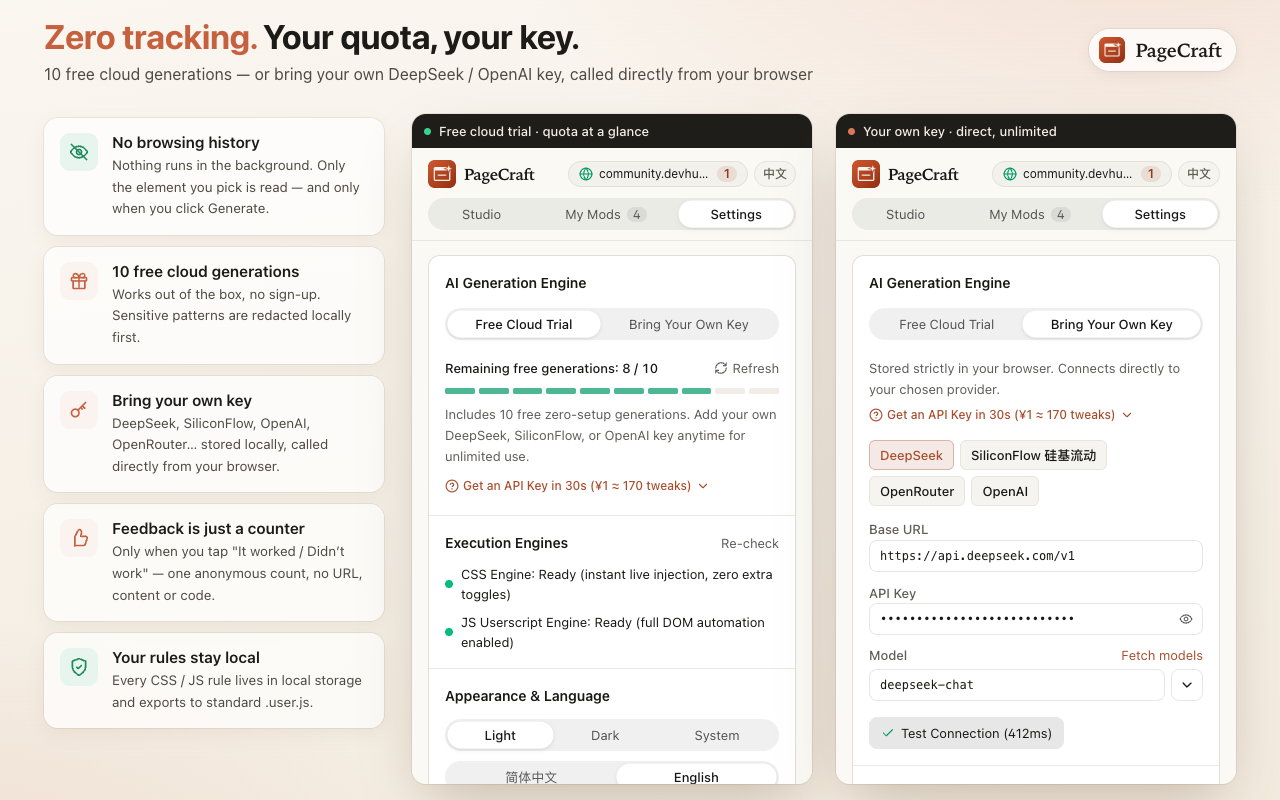
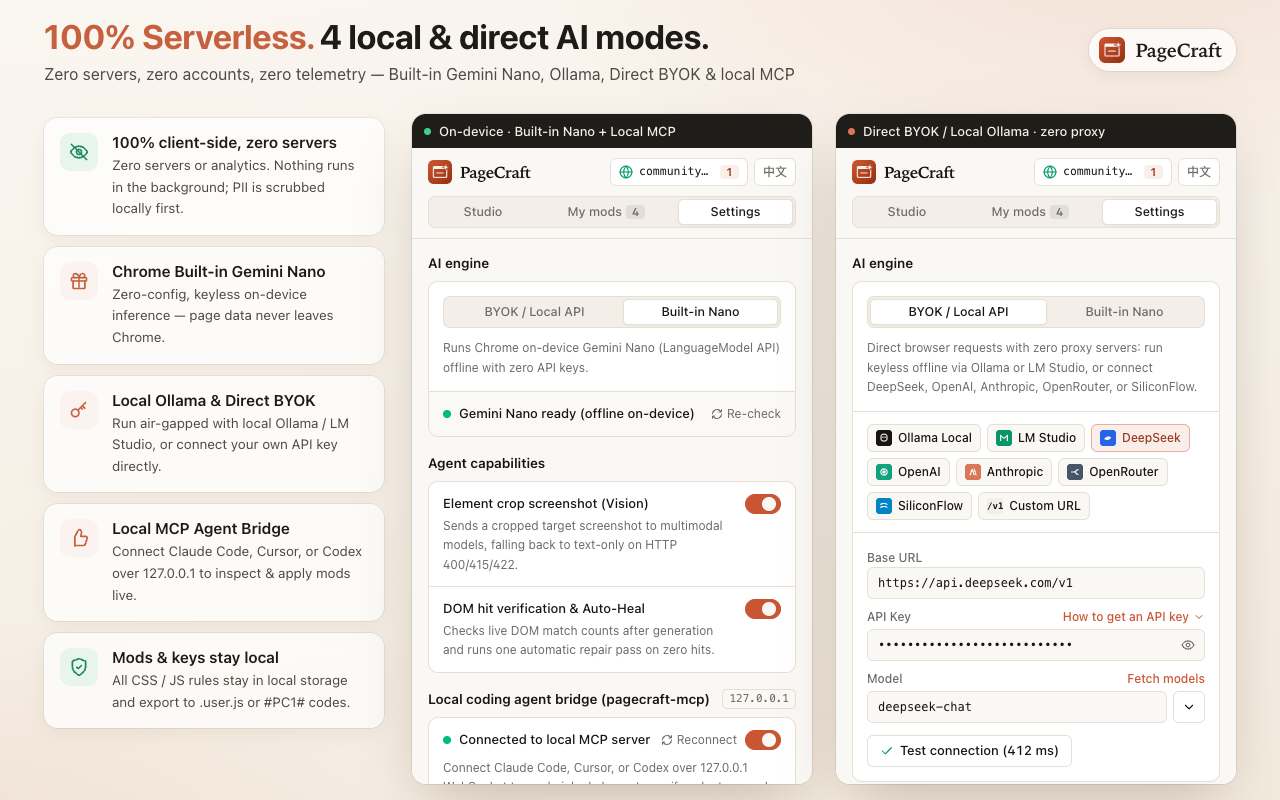
chore(store-assets): refresh bilingual screenshots and promos for zero-backend UI

diff --git a/store-assets/harness/scenes.js b/store-assets/harness/scenes.js
@@ -280,11 +280,11 @@
     },
     4: {
       title: L('改完立刻见效，<em>不满意就继续微调</em>', 'See it work instantly. <em>Refine until it\u2019s right.</em>'),
-      sub: L('一键反馈「生效了吗？」· 规则随时开关 · 导出标准 .user.js', 'One-tap "Did it work?" · toggle rules anytime · export standard .user.js'),
+      sub: L('DOM 命中实时校验与自动校准 · 规则随时开关 · 导出标准 .user.js', 'Live DOM hit check & auto-heal · toggle rules anytime · export standard .user.js'),
     },
     5: {
-      title: L('<em>零后台监控</em>，额度和密钥都由你掌控', '<em>Zero tracking.</em> Your quota, your key.'),
-      sub: L('送 10 次免费云端生成；也可自带 DeepSeek / OpenAI 等 Key，浏览器直连、无限使用', '10 free cloud generations — or bring your own DeepSeek / OpenAI key, called directly from your browser'),
+      title: L('<em>100% 零服务端</em>，4 种本地与自有算力任选', '<em>100% Serverless.</em> 4 local & direct AI modes.'),
+      sub: L('零官方服务器、零账号、零遥测上报；支持 Chrome 内置 AI、Ollama、BYOK 与本地 MCP', 'Zero servers, zero accounts, zero telemetry — Built-in Gemini Nano, Ollama, Direct BYOK & local MCP'),
     },
   };
 
@@ -310,11 +310,11 @@
       chat: '<svg viewBox="0 0 24 24" fill="none" stroke="currentColor" stroke-width="2" stroke-linecap="round" stroke-linejoin="round"><path d="M7 10v12M15 5.9 14 10h5.8a2 2 0 0 1 1.9 2.6l-2.3 7A2 2 0 0 1 17.5 21H7V10l4.3-7.4A1.6 1.6 0 0 1 14.2 3c.6.4.9 1.2.8 2Z"/></svg>',
     };
     const items = [
-      ['green', ico.eye, L('不记录浏览历史', 'No browsing history'), L('不在后台读取网页；只有你点击「生成改造」时才读取所选元素的结构。', 'Nothing runs in the background. Only the element you pick is read — and only when you click Generate.')],
-      ['', ico.gift, L('10 次免费云端生成', '10 free cloud generations'), L('装好就能用，无需注册；敏感信息在本地先脱敏再发送。', 'Works out of the box, no sign-up. Sensitive patterns are redacted locally first.')],
-      ['', ico.key, L('自带 Key 直连服务商', 'Bring your own key'), L('DeepSeek、硅基流动、OpenAI、OpenRouter…密钥只存本机，请求不经过我们。', 'DeepSeek, SiliconFlow, OpenAI, OpenRouter… stored locally, called directly from your browser.')],
-      ['', ico.chat, L('反馈只是一个匿名计数', 'Feedback is just a counter'), L('只有你点「生效了 / 没生效」时才匿名上报一次，不含网址、内容或代码。', 'Only when you tap "It worked / Didn\u2019t work" — one anonymous count, no URL, content or code.')],
-      ['green', ico.shield, L('规则只存在你的浏览器', 'Your rules stay local'), L('所有 CSS / JS 规则保存在本地，可随时导出为标准 .user.js。', 'Every CSS / JS rule lives in local storage and exports to standard .user.js.')],
+      ['green', ico.eye, L('100% 纯本地零服务端', '100% client-side, zero servers'), L('不在后台读取网页，零遥测上报；发送前在本地自动完成敏感信息脱敏。', 'Zero servers or analytics. Nothing runs in the background; PII is scrubbed locally first.')],
+      ['', ico.gift, L('Chrome 内置 AI 离线可用', 'Chrome Built-in Gemini Nano'), L('零配置、免密钥调用端侧模型，网页结构数据完全不出浏览器。', 'Zero-config, keyless on-device inference — page data never leaves Chrome.')],
+      ['', ico.key, L('Ollama 与自带 Key 直连', 'Local Ollama & Direct BYOK'), L('支持本机 Ollama / LM Studio 免密钥离线，或直连 DeepSeek / OpenAI / Anthropic。', 'Run air-gapped with local Ollama / LM Studio, or connect your own API key directly.')],
+      ['', ico.chat, L('本地 MCP 编程智能体桥接', 'Local MCP Agent Bridge'), L('通过 127.0.0.1 连接 Claude Code / Cursor / Codex，直接操控页面与规则。', 'Connect Claude Code, Cursor, or Codex over 127.0.0.1 to inspect & apply mods live.')],
+      ['green', ico.shield, L('规则与密钥只存本机', 'Mods & keys stay local'), L('所有 CSS / JS 规则仅保存在浏览器本地，一键导出标准 .user.js 或 #PC1# 口令。', 'All CSS / JS rules stay in local storage and export to .user.js or #PC1# codes.')],
     ];
     html += `
       <div class="priv">
@@ -326,11 +326,11 @@
             .join('')}
         </div>
         <div class="priv-card" style="left:412px">
-          <div class="inset-label"><span class="dot" style="background:#3ecf8e"></span>${L('免费云端试用 · 剩余额度一目了然', 'Free cloud trial · quota at a glance')}</div>
+          <div class="inset-label"><span class="dot" style="background:#3ecf8e"></span>${L('端侧离线 · 内置 Gemini Nano + 本地 MCP', 'On-device · Built-in Nano + Local MCP')}</div>
           <iframe src="${panelSrc('settings-cloud', { state: 'settings' })}"></iframe>
         </div>
         <div class="priv-card" style="left:836px">
-          <div class="inset-label"><span class="dot"></span>${L('自带 Key · 浏览器直连，无限使用', 'Your own key · direct, unlimited')}</div>
+          <div class="inset-label"><span class="dot"></span>${L('自带 Key / 本地 Ollama · 浏览器直连无中转', 'Direct BYOK / Local Ollama · zero proxy')}</div>
           <iframe src="${panelSrc('settings-byok', { state: 'settings' })}"></iframe>
         </div>
       </div>`;

diff --git a/store-assets/harness/mock-chrome.js b/store-assets/harness/mock-chrome.js
@@ -154,22 +154,26 @@
     );
   }
 
-  const quotaUsed = ['hero', 'table', 'applied'].includes(SCENARIO) ? 1 : 2;
   const SETTINGS = {
-    aiMode: SCENARIO === 'settings-byok' ? 'byok' : 'cloud',
+    aiMode: SCENARIO === 'settings-cloud' ? 'builtin' : 'byok',
     ai: {
       baseUrl: 'https://api.deepseek.com/v1',
-      apiKey: SCENARIO === 'settings-byok' ? 'sk-7f3c9a1e5b2d48f0a6c1e9d7' : '',
+      apiKey: 'sk-7f3c9a1e5b2d48f0a6c1e9d7',
       model: 'deepseek-chat',
       availableModels: ['deepseek-chat', 'deepseek-reasoner'],
     },
-    cloud: {
-      installId: 'a1b2c3d4e5f60718293a4b5c6d7e8f90',
-      endpoint: '',
-      quota: { used: quotaUsed, limit: 10, remaining: 10 - quotaUsed },
-    },
+    enableVisionCapture: true,
+    enableAutoHeal: true,
+    mcpBridgeEnabled: SCENARIO === 'settings-cloud' || SCENARIO === 'hero',
+    mcpBridgeUrl: 'ws://127.0.0.1:17321',
+    mcpBridgeToken: '',
     onboardingDone: true,
     tutorialDone: true,
+  };
+
+  window.LanguageModel = {
+    availability: () => Promise.resolve('available'),
+    create: () => Promise.resolve({ prompt: () => Promise.resolve('{}'), destroy() {} }),
   };
 
   const store = {
@@ -353,23 +357,27 @@
         return { ok: true };
       case 'USERSCRIPTS_TEST':
         return { ok: true, reloaded: false };
-      case 'FETCH_CLOUD_QUOTA':
-        return { ok: true, quota: clone(store.pc_settings.cloud.quota) };
+      case 'MCP_BRIDGE_STATUS':
+      case 'MCP_BRIDGE_RECONNECT':
+        return {
+          enabled: Boolean(store.pc_settings.mcpBridgeEnabled),
+          connected: Boolean(store.pc_settings.mcpBridgeEnabled),
+          url: store.pc_settings.mcpBridgeUrl || 'ws://127.0.0.1:17321',
+        };
+      case 'BUILTIN_AI_PROBE':
+        return { status: 'available' };
       case 'TEST_CONNECTION':
         return { ok: true, elapsedMs: 412 };
       case 'LIST_MODELS':
         return { ok: true, models: ['deepseek-chat', 'deepseek-reasoner'] };
       case 'GENERATE_USERSCRIPT': {
         const key = DRAFTS[SCENARIO] ? SCENARIO : 'hero';
-        const q = store.pc_settings.cloud.quota;
-        const used = Math.min(q.limit, q.used + 1);
-        const quota = { used, limit: q.limit, remaining: q.limit - used };
-        store.pc_settings.cloud.quota = quota;
         return delay(120, {
           ok: true,
           script: clone(DRAFTS[key]),
-          provider: 'cloud',
-          quota,
+          provider: 'byok',
+          usedVision: key === 'hero',
+          autoHealed: false,
           selectorCheck: clone(CHECKS[key]),
         });
       }
@@ -472,11 +480,11 @@
     setNativeValue(ta, INTENTS[key]);
     await sleep(80);
     const gen = await waitFor(() => {
-      const b = findButton(L('生成改造', 'Generate Mod'));
+      const b = findButton(L('生成改造', 'Generate mod'));
       return b && !b.disabled ? b : null;
     });
     gen.click();
-    await waitFor(() => document.querySelector('main h2') && findButton(L('应用并保存', 'Apply & Save')));
+    await waitFor(() => document.querySelector('main h2') && findButton(L('应用并保存', 'Apply and save')));
   }
 
   async function run() {
@@ -492,15 +500,15 @@
         if (zh) {
           // EN copy wraps to more lines; the feedback row would overflow the 642px panel there.
           findButton('应用并保存').click();
-          await waitFor(() => findButton('生效了'));
+          await waitFor(() => findButton('已生效'));
           await sleep(2900); // let the "applied" toast fade so it doesn't cover the card
         }
         break;
       }
       case 'applied': {
         await pickAndGenerate('applied');
-        findButton(L('应用并保存', 'Apply & Save')).click();
-        await waitFor(() => findButton(L('生效了', 'It worked')));
+        findButton(L('应用并保存', 'Apply and save')).click();
+        await waitFor(() => findButton(L('已生效', 'Confirm working')));
         break; // keep the "已启用并保存" toast visible on purpose
       }
       case 'recipes':
@@ -514,9 +522,9 @@
         break;
       case 'settings-byok': {
         await waitFor(() => document.querySelector('input[type="password"]'));
-        const btn = findButton(L('测试接口连通性', 'Test Connection'));
+        const btn = findButton(L('测试连通性', 'Test connection'));
         if (btn) btn.click();
-        await waitFor(() => findButton('412ms'));
+        await waitFor(() => findButton('412 ms'));
         await sleep(2900); // wait out the toast
         break;
       }

diff --git a/store-assets/harness/promo.html b/store-assets/harness/promo.html
@@ -78,7 +78,7 @@
           <div><div class="name">PageCraft</div><div class="sub">网页工坊 · AI 去弹窗改样式与油猴脚本</div></div>
         </div>
         <h2>鼠标指哪改哪，<br><em>一句话改造任何网页</em></h2>
-        <div class="chips"><span class="chip">点选元素</span><span class="chip">CSS / JS 双引擎</span><span class="chip">零后台监控</span></div>
+        <div class="chips"><span class="chip">点选元素</span><span class="chip">CSS / JS 双引擎</span><span class="chip">100% 零服务端</span></div>
       </div>`;
     done();
   } else if (kind === 'marquee') {
@@ -88,11 +88,11 @@
         <div class="left">
           <div class="row">
             <div class="tile"><img src="/icon/128.png" alt=""></div>
-            <div><div class="name">PageCraft</div><div class="sub">AI Webpage Customizer &amp; Userscript Studio</div></div>
+            <div><div class="name">PageCraft</div><div class="sub">Live Webpage Customizer &amp; Micro-Agent Runtime</div></div>
           </div>
           <h2>鼠标指哪改哪，<br><em>一句话改造任何网页</em></h2>
-          <p>点选元素、说出需求，AI 即时生成 CSS 改造或油猴脚本，<br>兼容篡改猴 / 脚本猫，开箱送 10 次免费额度。</p>
-          <div class="chips"><span class="chip">点选真实元素</span><span class="chip">CSS 秒生效</span><span class="chip">一键导出 .user.js</span><span class="chip">零后台监控</span></div>
+          <p>点选元素、说出需求，即时生成 CSS 改造或油猴脚本。<br>100% 纯本地零服务端，支持内置 AI、Ollama、BYOK 与本地 MCP。</p>
+          <div class="chips"><span class="chip">点选真实元素</span><span class="chip">CSS 秒生效</span><span class="chip">一键导出 .user.js</span><span class="chip">100% 零服务端</span></div>
         </div>
         <div class="shot"><iframe src="/panel.html?mock=hero&lang=zh&theme=light&fid=marquee"></iframe></div>
       </div>`;

diff --git a/store-assets/README.md b/store-assets/README.md
@@ -27,8 +27,8 @@ node store-assets/harness/capture.mjs --serve --port 4173                       
 | `zh/screenshot-1.png` | 1280×800 | Hero: picked element + instruction + CSS draft, “已在当前页命中 2 个目标元素” |
 | `zh/screenshot-2.png` | 1280×800 | Table “导出 CSV” JS userscript, applied, with feedback row |
 | `zh/screenshot-3.png` | 1280×800 | One-click recipes list (site-specific recipe active) |
-| `zh/screenshot-4.png` | 1280×800 | Applied mod + “在页面上生效了吗？” row + toast, inset of the real 我的改造 page |
-| `zh/screenshot-5.png` | 1280×800 | Privacy / BYOK: settings in cloud-quota mode and own-key mode |
+| `zh/screenshot-4.png` | 1280×800 | Applied mod + live DOM check row + toast, inset of the real 规则库 page |
+| `zh/screenshot-5.png` | 1280×800 | 100% Serverless & 4 AI modes: Built-in Gemini Nano + local MCP and Direct BYOK / Ollama |
 | `en/screenshot-1..5.png` | 1280×800 | English versions of scenes 1–5 (panel in English via `?lang=en`) |
 | `promo-small-440x280.png` | 440×280 | Small promo tile |
 | `promo-marquee-1400x560.png` | 1400×560 | Marquee promo tile (with real panel) |
